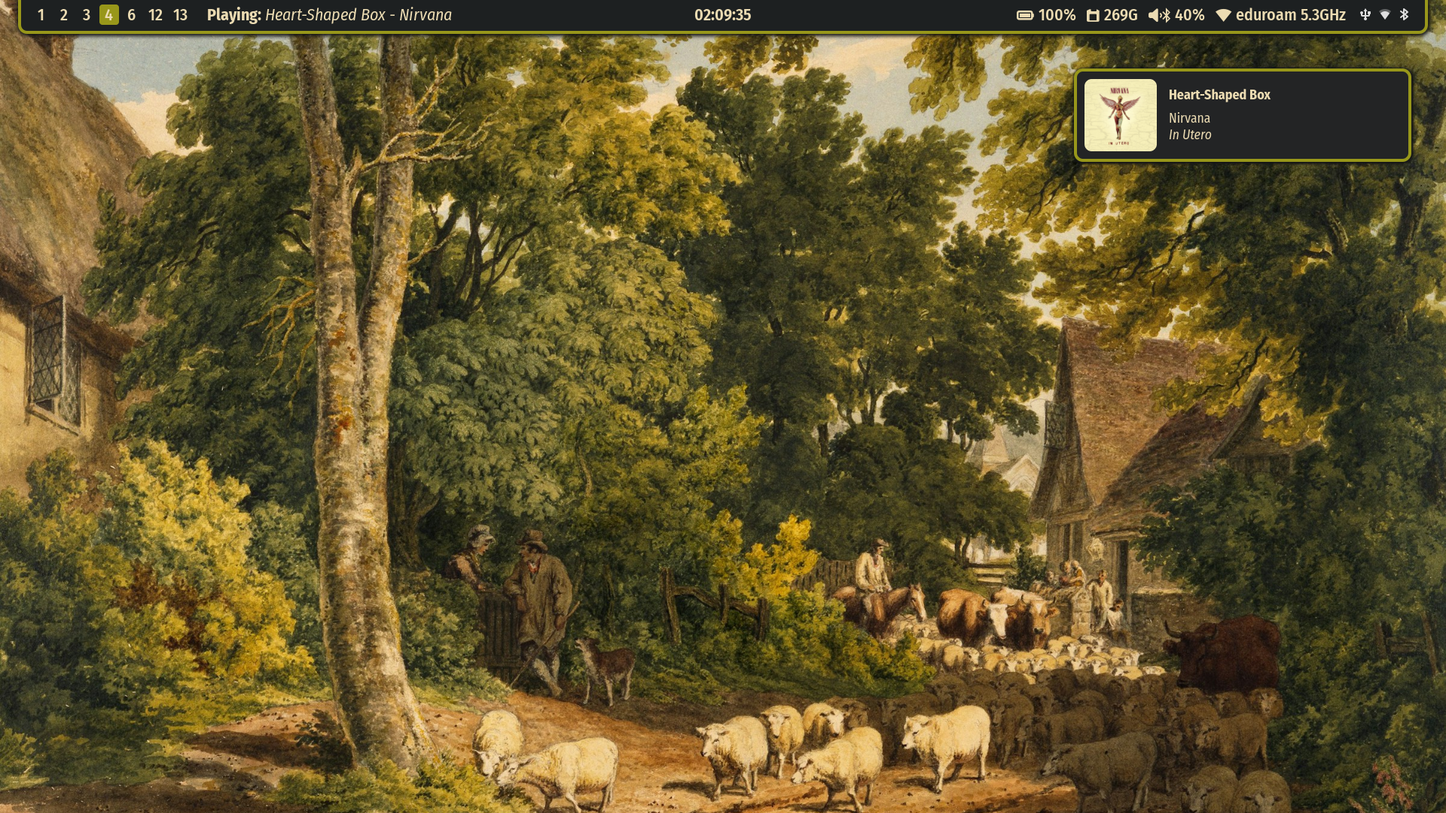
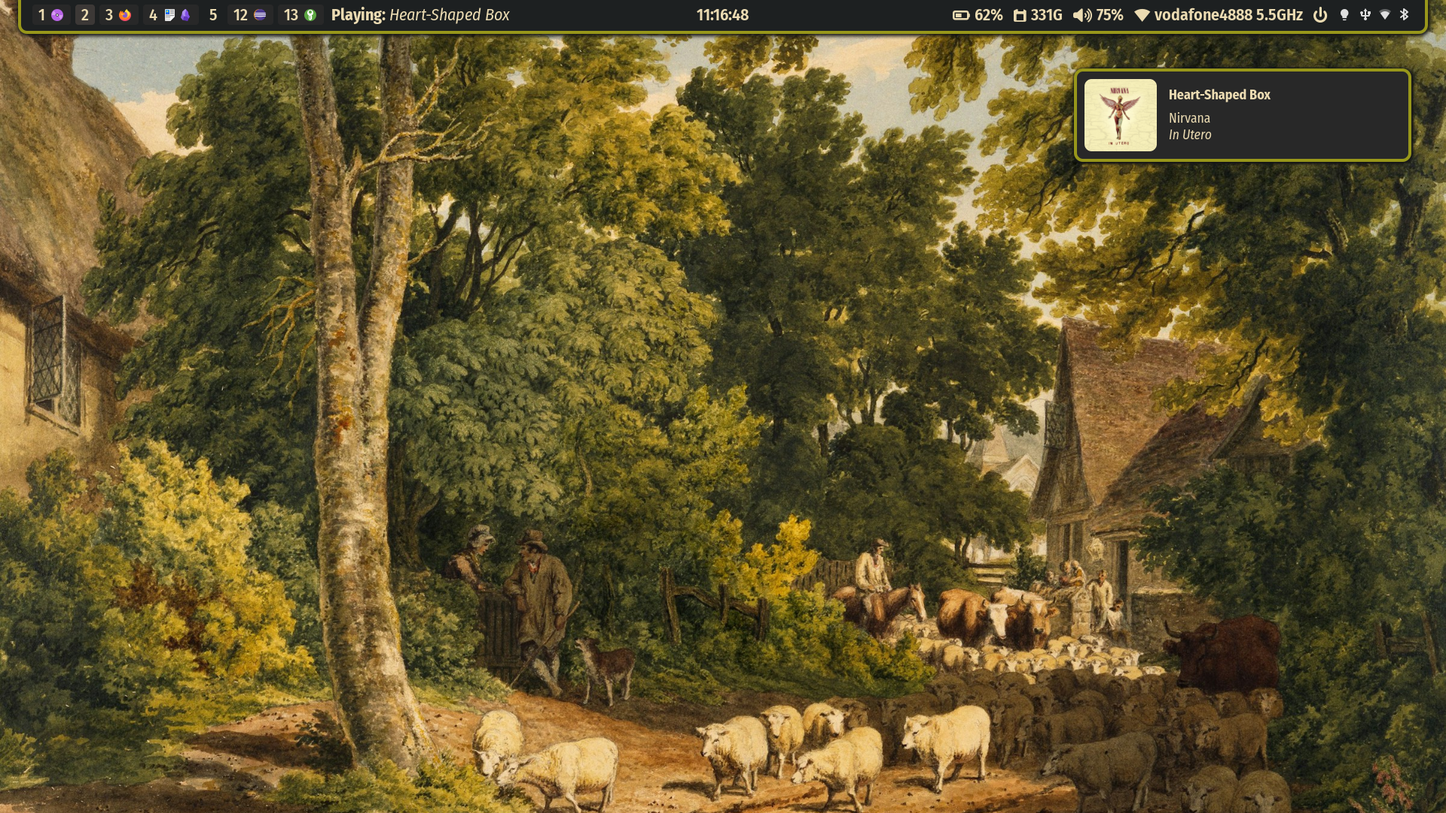
chore: update waybar config & screenshots

Changed region(s): [[0.0312, 0.0, 0.3438, 0.0306], [0.6562, 0.0, 0.9375, 0.0306], [0.4688, 0.0, 0.5312, 0.0306]]

diff --git a/.config/waybar/style.css b/.config/waybar/style.css
@@ -2,8 +2,6 @@
   color: #ebdbb2;
   font-family: "Symbols Nerd Font", "Fira Sans Condensed";
   font-size: 22px;
-
-  font-weight: 600;
   border-radius: 4px;
 }
 
@@ -31,16 +29,19 @@
 }
 
 .modules-center {
+  font-weight: 600;
   margin-bottom: 2px;
 }
 
 .modules-right {
+  font-weight: 600;
   margin-right: 15px;
   margin-bottom: 2px;
 }
 
 #workspaces {
-  margin: 6px 12px 6px 12px;
+  font-weight: 600;
+  margin: 6px 7.5px 6px 12px;
 }
 
 #workspaces .workspace-label {
@@ -74,7 +75,7 @@
 }
 
 #custom-music-metadata {
-  margin: 0px 7.5px 0px 7.5px;
+  margin: 0px 7.5px 0px 0px;
 }
 
 #clock {
